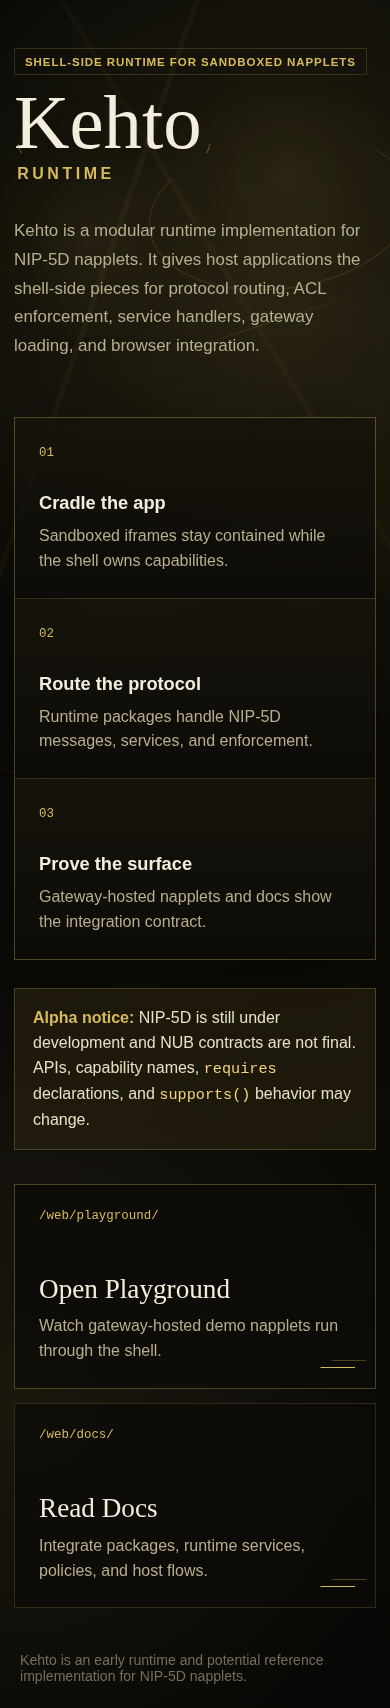
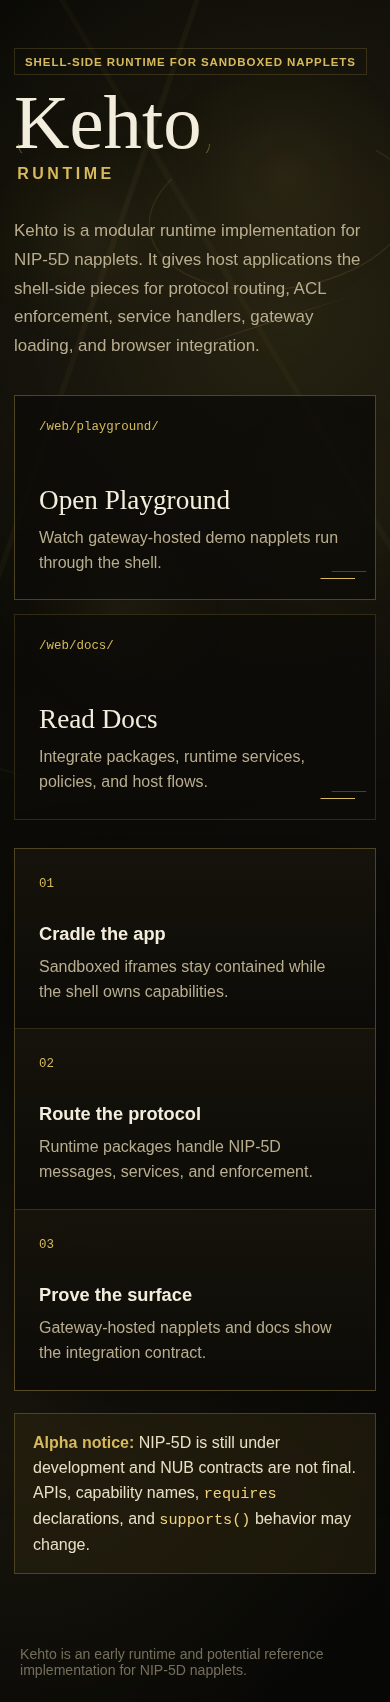
Keep the portal's motion proof verifiable
The liquid accent implementation was visually correct, but the direct GSAP ticker wrapper added scanner noise and the refreshed mobile visual gate showed the destination routes falling below the first viewport. The cleanup keeps the animation behavior intact, moves mobile destinations immediately after the hero, and refreshes phase evidence from the current artifact.

Constraint: Landing page routes are part of the primary UX and need first-viewport visibility on mobile.

Rejected: Loosen the visual checker | would preserve a weaker mobile route experience.

Confidence: high

Scope-risk: narrow

Directive: Keep the mobile destination order intentional unless a future visual gate proves the routes still remain prominent.

Tested: pnpm build:pages && pnpm audit:pages

Tested: browser visual runner for desktop, mobile, and reduced motion with canvas pixel sampling

Tested: node --check web/assets/landing.js

Tested: npx --yes aislop scan -d

Tested: pnpm test:unit -- tests/unit/playground-gateway-guard.test.ts

Tested: git diff --check

diff --git a/web/assets/landing.css b/web/assets/landing.css
@@ -339,12 +339,29 @@ code {
 @media (max-width: 780px) {
   .landing {
     width: min(100% - 28px, var(--max-width));
+    display: flex;
+    flex-direction: column;
     padding-top: 48px;
   }
 
   .proof-grid,
   .destinations {
     grid-template-columns: 1fr;
+  }
+
+  .destinations {
+    order: 2;
+    margin-top: 34px;
+  }
+
+  .proof-grid {
+    order: 3;
+    margin: 28px 0 22px;
+  }
+
+  .notice {
+    order: 4;
+    margin-bottom: 28px;
   }
 
   .proof-item,

diff --git a/web/assets/landing.js b/web/assets/landing.js
@@ -91,12 +91,11 @@ function setupLiquidAccent(gsapApi, reducedMotionQuery) {
     return () => window.removeEventListener('resize', onResize);
   }
 
-  const tick = (time) => draw(time);
-  gsapApi.ticker.add(tick);
+  gsapApi.ticker.add(draw);
 
   return () => {
     window.removeEventListener('resize', onResize);
-    gsapApi.ticker.remove(tick);
+    gsapApi.ticker.remove(draw);
   };
 }
 

diff --git a/.planning/phases/79-liquid-accent-and-visual-verification/79-VERIFICATION.md b/.planning/phases/79-liquid-accent-and-visual-verification/79-VERIFICATION.md
@@ -18,8 +18,9 @@ Passed.
 | Static/unit guard | Passed | `pnpm test:unit -- tests/unit/playground-gateway-guard.test.ts` ran 35 files and 570 tests successfully. |
 | Pages artifact build | Passed | `pnpm build:pages` completed successfully. |
 | Pages artifact audit | Passed | `pnpm audit:pages` completed successfully. |
+| Static quality scan | Passed | `npx --yes aislop scan -d` reported 100 / 100 healthy. |
 | Desktop visual check | Passed | `visual/desktop.png`; key content and route links visible, canvas nonblank. |
-| Mobile visual check | Passed | `visual/mobile.png`; text fits and route cards stack without overlap, canvas nonblank. |
+| Mobile visual check | Passed | `visual/mobile.png`; text fits, destination links are visible in the first viewport, and route cards stack without overlap. |
 | Reduced-motion visual check | Passed | `visual/reduced-motion.png`; final static state visible, canvas nonblank. |
 | Whitespace | Passed | `git diff --check` returned no findings. |
 
@@ -37,8 +38,8 @@ The local visual runner served `.pages` under `/web/` so asset paths matched Git
 
 | View | Canvas Size | Nontransparent Sampled Pixels | Key Content Visible |
 |------|-------------|-------------------------------|---------------------|
-| Desktop | 1440 x 1000 | 14,830 / 20,000 | yes |
-| Mobile | 390 x 844 | 10,521 / 20,256 | yes |
-| Reduced motion | 1440 x 1000 | 14,838 / 20,000 | yes |
+| Desktop | 1440 x 1000 | 14,930 / 28,800 | yes |
+| Mobile | 390 x 844 | 4,574 / 28,800 | yes |
+| Reduced motion | 1440 x 1000 | 15,196 / 28,800 | yes |
 
 The runner reported no failures.

diff --git a/.planning/phases/79-liquid-accent-and-visual-verification/79-SUMMARY.md b/.planning/phases/79-liquid-accent-and-visual-verification/79-SUMMARY.md
@@ -9,6 +9,7 @@
 - Styled the canvas as a low-contrast, pointer-transparent ambient layer.
 - Implemented a lightweight 2D liquid/pressure-field renderer in `web/assets/landing.js`.
 - Used GSAP's ticker for normal-motion animation and a static render path for reduced motion.
+- Kept mobile route links in the first viewport by moving destinations directly after the hero on narrow screens.
 - Extended audit/static guard coverage for the liquid accent contract.
 - Captured desktop, mobile, and reduced-motion screenshots from a local `/web/` server that matches the GitHub Pages path contract.
 - Captured a canvas nonblank check in `visual/visual-check.json`.
@@ -25,11 +26,12 @@
 - `pnpm test:unit -- tests/unit/playground-gateway-guard.test.ts` passed; Vitest ran 35 files and 570 tests.
 - `pnpm build:pages` passed.
 - `pnpm audit:pages` passed.
+- `npx --yes aislop scan -d` passed with a 100 / 100 healthy score.
 - Browser visual check passed for desktop, mobile, and reduced motion.
 - Canvas nonblank checks passed:
-  - desktop: 14,830 / 20,000 sampled pixels nontransparent
-  - mobile: 10,521 / 20,256 sampled pixels nontransparent
-  - reduced motion: 14,838 / 20,000 sampled pixels nontransparent
+  - desktop: 14,930 / 28,800 sampled pixels nontransparent
+  - mobile: 4,574 / 28,800 sampled pixels nontransparent
+  - reduced motion: 15,196 / 28,800 sampled pixels nontransparent
 - `git diff --check` passed before phase closeout.
 
 ## Visual Evidence